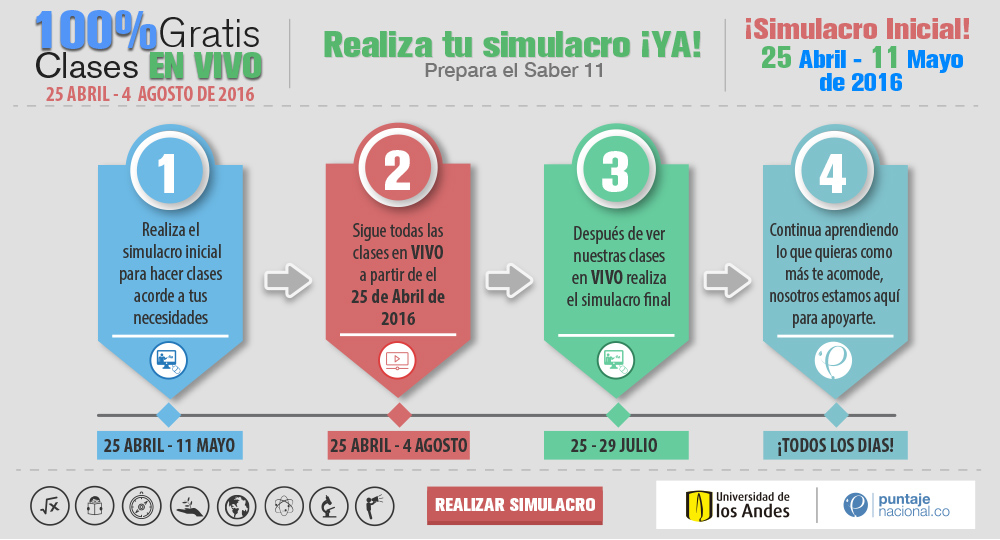
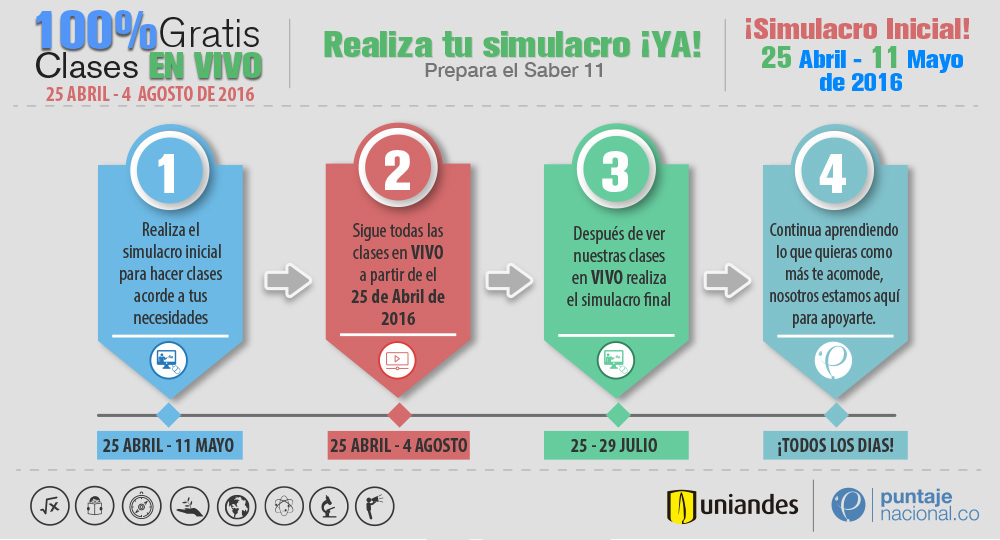
update botones

Changed region(s): [[0.651, 0.8889, 0.992, 0.9778], [0.403, 0.8889, 0.62, 0.9778], [0.093, 0.8, 0.248, 0.8593]]

diff --git a/index.html b/index.html
@@ -1147,12 +1147,16 @@
                     </div>                    
                     <div class="modal-body">
                         <img src="images/realizar_simulacro_copia.jpg" class="img-responsive" alt="Responsive image">
-                        
-                        
-                       
+                        <div class="row">
+                          <div class="col-md-6">
+                           <a href="#" style="z-index: 10000;text-transform: capitalize; margin-left: 35%;height: 36px;padding:8px 6px 2px 6px;" class="btn btn-warning simulacro" data-toggle="modal" data-target="#">Realizar Simulacro</a>
+                       </div>
+                           <div class="col-md-6">
+                           <a href="#" style="z-index: 10000;text-transform: capitalize;margin-left: 35%;height: 36px;padding:8px 6px 2px 6px;" class="btn btn-warning simulacro" data-toggle="modal" data-target="#">¡ver clases ahora!</a>       
+                          </div>
+                        </div>                                     
                            
-                            <button data-dismiss="modal" id="Ingreso_Plataforma" type="button" class="btn btn-success ingreso" >Cerrar</button>
-                       
+                            <button style="margin-top:10px;" data-dismiss="modal" id="Ingreso_Plataforma" type="button" class="btn btn-success ingreso" >Cerrar</button>              
                         
                     </div>
                     

diff --git a/css/main.css b/css/main.css
@@ -550,8 +550,13 @@ blockquote::before {
 
 .tweet { font-size: 23px; }
 
-.sub-form .btn { padding: 1em 2em; }
+.sub-form .btn { padding: 1em 2em;
+
+ }
 }
+
+
+
 
 /* ==========================================================================
    20.Medium devices (desktops, 992px and up) 
